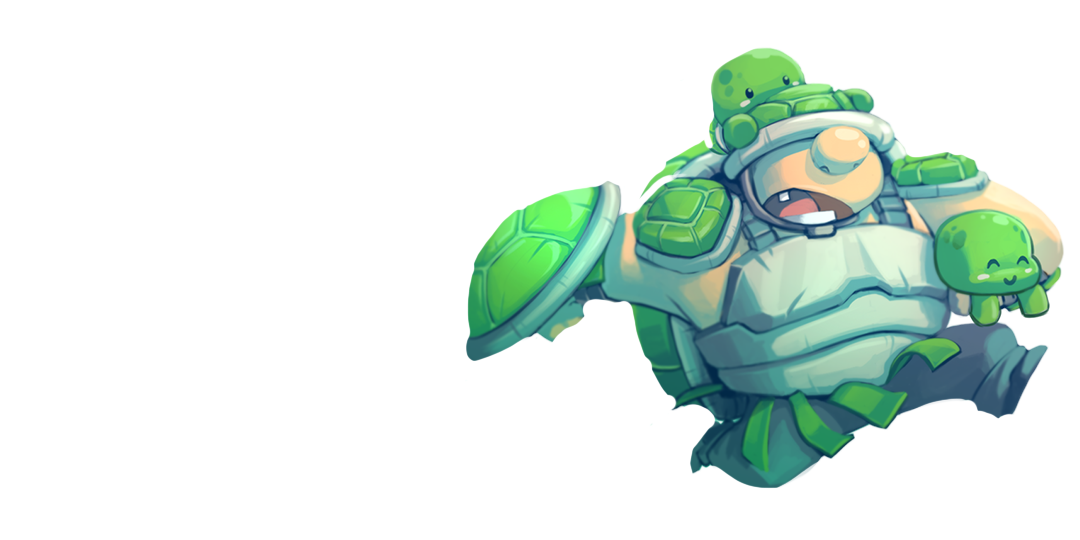
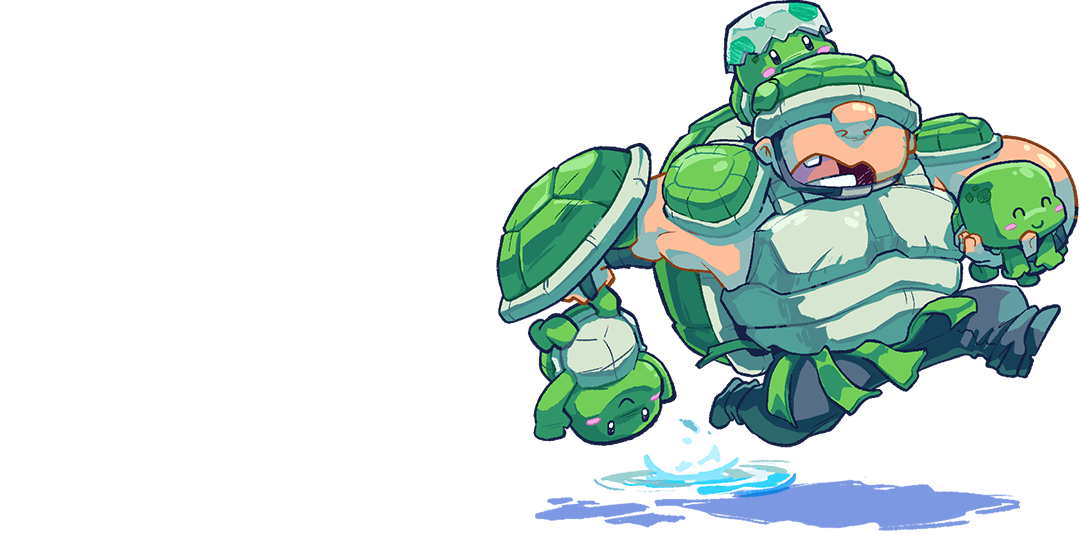
update art

diff --git a/portfolio3.html b/portfolio3.html
@@ -92,7 +92,7 @@
 		<i>
 			<p>Mobile Game Application
 			<br>Collaborative Project
-			<br>Platform: iOS/Android
+			<br>Platform: iOS/Android/PC
 
 			</p>
 			</i>
@@ -102,7 +102,8 @@
 			of the legendary <i>Knownut</i>. The game is an automatic 
 			side scrolling runner where the player must dodge 
 			obstacles, eat donuts, and defeat anything in their path. 
-
+			<br><br>
+				Role: Pixel Art, Marketing Art, Graphic Design, Motion Graphics
 			<!-- <br><br>Collaborators: 
 				<br>Programmer: Mark Ilog
 				<br>Music and Sound Design: Johnson Nguyen 
@@ -120,12 +121,22 @@
 			<div class="pbox">
 				<a class = "btn" href="https://play.google.com/store/apps/details?id=com.Abylight.NinjaChowdown&hl=en_US&gl=US">Android</a>
 				<a class = "btn" href="https://apps.apple.com/us/app/ninja-chowdown/id1529428332">iOS</a>
+				<a class = "btn" href="https://store.steampowered.com/app/2698490/Ninja_Chowdown_Glaze_of_Glory/">PC</a>
+				<a class = "btn" href="https://www.nintendo.com/us/store/products/ninja-chowdown-glaze-of-glory-switch/?srsltid=AfmBOorgQw_x1xdGG-ZmfkS3Pno48eAxXTlYuEDDU4fbJHs-Pxe9Pyhg">Nintendo Switch</a>
+
 			</div>
 			<br>
 
 			
 
 			<div class="pbox" >
+                <img src="images/portfolio/portfolio5/pbig50.jpg" alt=""/>
+				<p>
+						<i>Nintendo Switch and Steam Key Art</i>
+				</p>
+			</div>	
+			<br>
+
                 <img src="images/portfolio/portfolio5/pbig5.png" alt=""/>
 			</div>	
 			<br>

diff --git a/portfolio4.html b/portfolio4.html
@@ -99,7 +99,7 @@
 			<p> Smolbound is a bright and colorful game based off of the original IP known as Smolverse. The core idea of the game is a blend of cozy sandbox, colony management, and strategic exploration, while bringing in a twist of whacky farming-based combat. The player lives on the back of a Sky Whale
 				which travels throughout an endless void across floating islands in the galaxy where they meet unique characters and gain more villagers on their journey.
 				The project began as a title under the crypto-game publishing company known as Treasure. As the main point of the art team, I was in charge of establishing the initial art direction and visual tone, directly contributing to securing $6M in project funding. Throughout the project, 
-				core duties involved setting the initial unity-art pipeline alongside the engineering team, led a small team of artists to maintain visually consistency through art and UI, while maintaining and directing all other visual needs for the studio.
+				core duties involved setting the initial unity-art pipeline alongside the engineering team, leading a small team of artists to maintain visually consistency through art and UI, while maintaining and directing all other visual needs for the studio.
 							
 				<br>
 				<br>Role: Art Lead with duties in Art Direction, Character Art, Environment Art, Character Rigging and Animation, Technical Art and VFX

diff --git a/portfolio2.html b/portfolio2.html
@@ -90,17 +90,18 @@
 	
 		<h1>Turtle Daddy</h1>
 		<i>
-			<p>Mobile Game Application
+			<p>Video Game
 		<br>Collaborative Project
-		<br>Platform: iOS/Android/HTML5
+		<br>Platform: PC
 			</p>
 			</i>
 			<div class="copybox">
-			<p>Turtle Daddy is a pixel based mobile game application
-				featuring an enthusiastic Turtle Daddy commando 
-				who travels beaches and saves baby turtles from the 
+			<p>Turtle Daddy is a pixel-based video game
+				featuring an enthusiastic "Turtle Daddy" commando 
+				who travels across several beaches and saves baby turtles from the 
 				dangers of the shorelines on their trek from birth to sea. 
-				<br>
+				<br><br>
+				Role: Art, Animation, Marketing Art, and Graphic Design
 				<!-- <br>Collaborators:
 				<br>Programmer: Mark Ilog
 				<br>Music and Sound Design: Johnson Nguyen -->
@@ -115,7 +116,7 @@
 				<br>
 			</div>	
 			<br>
-
+			
 			<p><i>*Please note that this is the jam version of the game. The fully polished version is still in progress.</i></p>
 			<div class="pbox">
 				<a class = "btn" href="https://dummydojo.itch.io/turtle-daddy">Play Demo</a>
@@ -127,6 +128,9 @@
 			</div>	
 			<div class="pbox">
                 <img src="images/portfolio/portfolio2/pbig22.png" alt=""/>
+				<p>
+						<i>Key Art</i>
+				</p>
 			</div>	
 			<div class="pbox">
                 <img src="images/portfolio/portfolio2/pbig23.gif" alt=""/>

diff --git a/portfolio6.html b/portfolio6.html
@@ -108,7 +108,7 @@
 				on Kickstarter raising over $15,000. The character bases are created in Adobe Animate, 
 				animated in Spine Esoteric, and certain attacks and actions are purely frame-by-frame animation.
 				<br>
-				<br>Role: Art Direction, Animator, Technical Artist, Character Artist, Background Artist
+				<br>Role: Art Direction, Animation, Technical Art, Character Art, Background Art, Marketing Art, Graphic Design
 				<!-- <br><br>Collaborators: 
 				<br>Programmer: Mark Ilog
 				<br>Music and Sound Design: Johnson Nguyen 

diff --git a/portfolio1.html b/portfolio1.html
@@ -99,6 +99,7 @@
 			<div class="copybox">
 			<p>5-Second Sumo is a mobile application where the player must throw food off of a moving conveyer belt to feed a hungry sumo wrestler without having food stay on the floor for longer than 5 seconds. The game is essentially based off of the “5-second rule”  where food that hit the floor is edible as long as it is picked up within 5 seconds.
 			
+				
 			<!-- <br><br>Collaborators: 
 				<br>Programmer: Mark Ilog
 				<br>Music and Sound Design: Johnson Nguyen  -->

diff --git a/portfolio7.html b/portfolio7.html
@@ -106,7 +106,7 @@
 				All in-game assets are made in Adobe Illustrator, animated in either After Effects or Spine Esoteric, and implemented in Unity.
 
 				<br>
-				<br>Role: 2D Artist/Animator
+				<br>Role: 2D Artist/Animator, Motion Graphics
 				<!-- <br><br>Collaborators: 
 				<br>Artist: Joanna Shim
 				<br>Artist: Coco Gao -->
